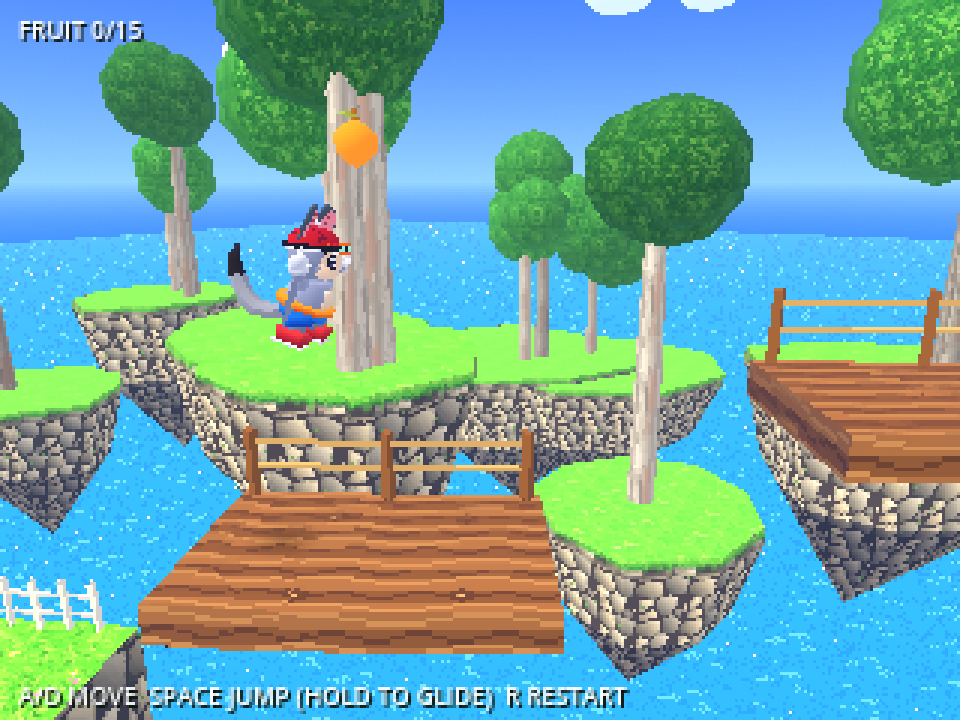
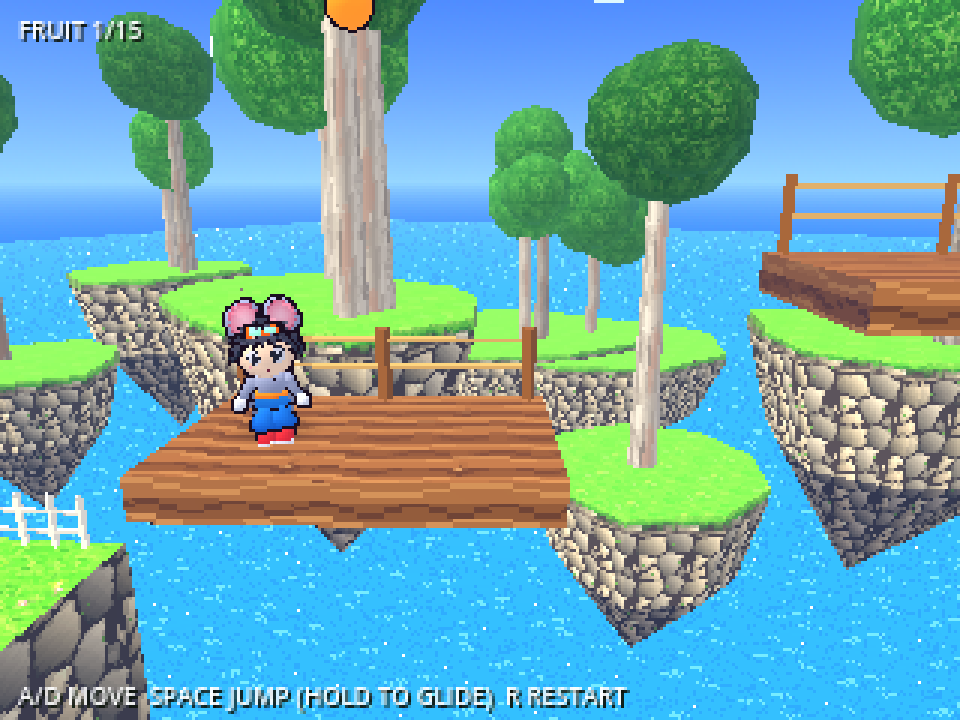
Retake README screenshots with Bao's new look

diff --git a/README.md b/README.md
@@ -6,7 +6,7 @@ As Bao, you run, jump and glide along a winding path across sunny floating islan
 
 ![Gliding past floating islands above the sea](docs/screenshot-glide.png)
 
-![Running across grassy islands and rope-railed wooden platforms](docs/screenshot-branches.png)
+![Bao standing on a rope-railed wooden platform among the floating islands](docs/screenshot-branches.png)
 
 ## Features
 
